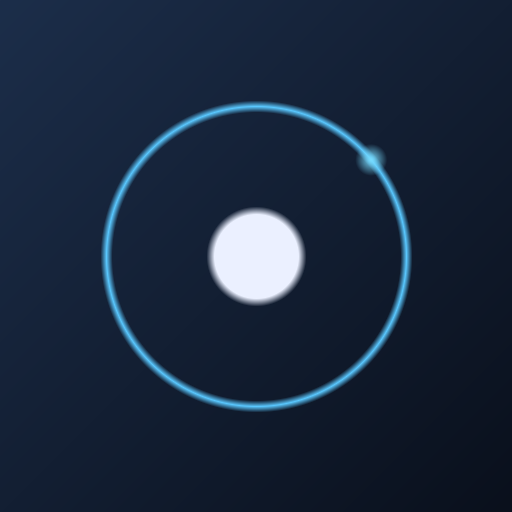
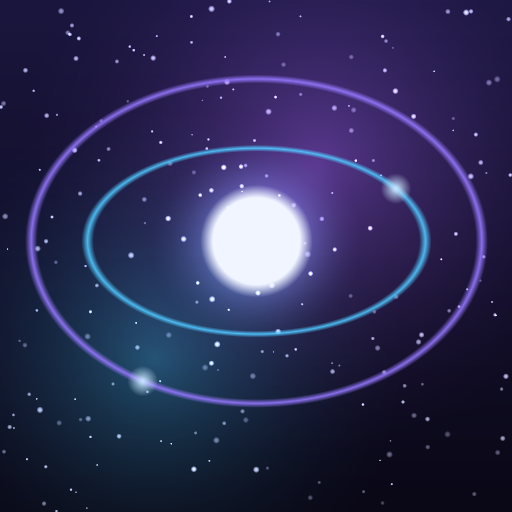
package: fix crash (hide splash screen) + arte original caprichada
- main.c: sceSystemServiceHideSplashScreen() no início — sem isso o sistema
  mata o app (causa do crash)
- sce_sys/icon0.png: ícone original cósmico (starfield/nebulosa/órbitas/core)
- sce_sys/splash.png: splash art original 1280x720 (p/ quando o backend gráfico renderizar)
- arte 100% original; nenhuma IP/personagem de terceiros

diff --git a/package/src/main.c b/package/src/main.c
@@ -13,32 +13,14 @@
 #include "../../product/media/media_verify.h"
 #include "../../product/media/manifest_rmge01.h"
 
-/* Notificação on-screen (prova visível de boot). */
-typedef struct {
-    int type;
-    int req_id;
-    int priority;
-    int msg_id;
-    int target_id;
-    int user_id;
-    int unk1;
-    int unk2;
-    int app_id;
-    int error_num;
-    int unk3;
-    char use_icon_image_uri;
-    char message[1024];
-    char icon_uri[1024];
-    char unk[1024];
-} OrbisNotificationRequest;
-
+/* Notificação on-screen (prova visível de boot).
+   OrbisNotificationRequest vem de <orbis/_types/kernel.h> (via libkernel.h). */
 static void notify(const char *msg) {
     OrbisNotificationRequest req;
     memset(&req, 0, sizeof req);
     req.type = 0;
-    req.unk3 = 0;
-    req.use_icon_image_uri = 1;
-    req.target_id = -1;
+    req.targetId = -1;
+    req.useIconImageUri = 0;   /* sem ícone custom por enquanto */
     strncpy(req.message, msg, sizeof(req.message) - 1);
     sceKernelSendNotificationRequest(0, &req, sizeof req, 0);
 }
@@ -59,6 +41,9 @@ static const char *find_user_media(void) {
 }
 
 int main(void) {
+    /* Gotcha OpenOrbis: sem esconder o splash, o sistema mata o app ("crash"). */
+    sceSystemServiceHideSplashScreen();
+
     notify("quovix — casca v0 iniciada (" QVX_GAME_ID ")");
 
     const char *media = find_user_media();
